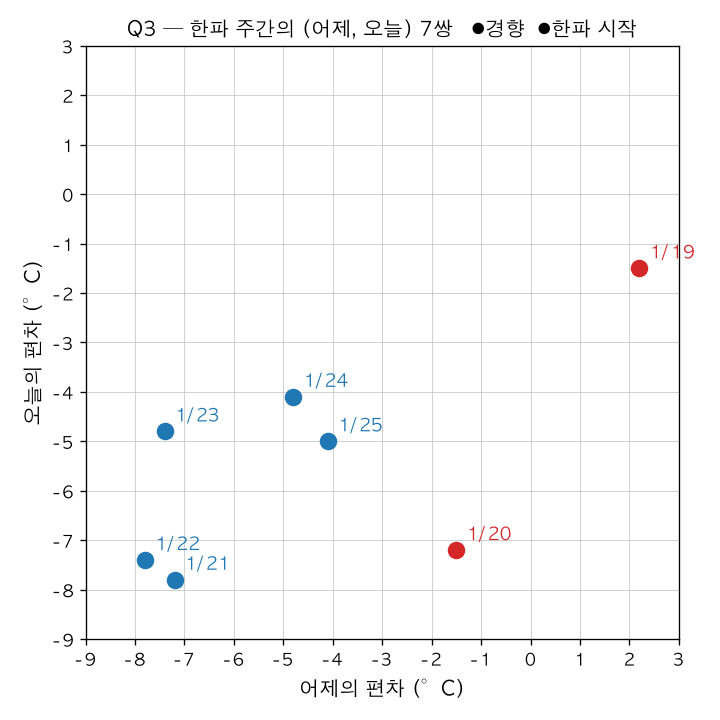
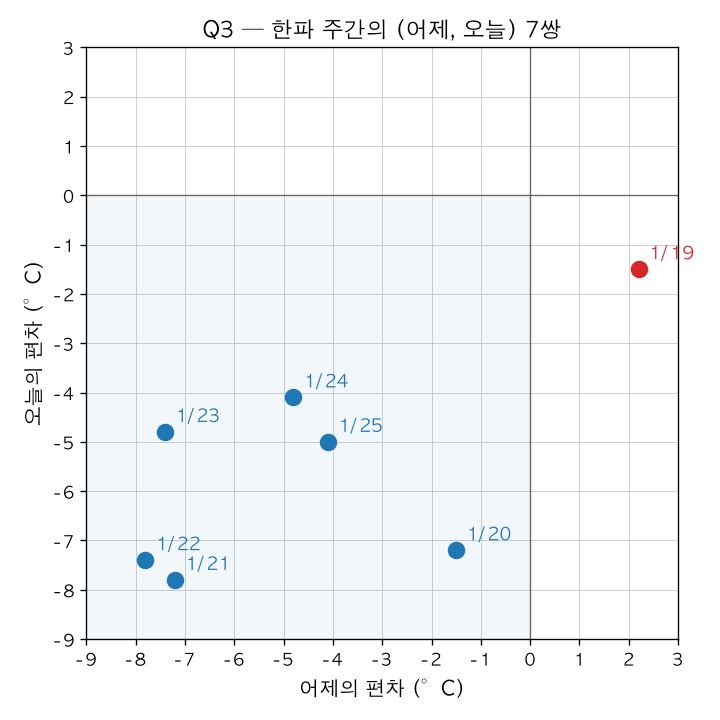
fix: H5 Q3 재설계 — 7쌍 손그림에서 방향 해석 제거, '구역 관찰 = 가설, 판정은 1,095쌍' 구조로

diff --git a/courses/high/modules/05-autocorrelation/teacher.md b/courses/high/modules/05-autocorrelation/teacher.md
@@ -26,19 +26,20 @@
   편차는 오늘에 대한 강력한 힌트다. (유일한 예외가 첫 짝 +2.2 →
   -1.5, 한파가 **시작되는 날** — Q14의 복선이므로 여기서 가볍게
   짚어만 둔다.)
-- Q3 답: **대체로** 오른쪽 위로 향한다(7쌍의 상관 약 0.6) — 단,
-  깔끔한 직선을 기대하게 하지 말 것. 한파 시작의 두 짝
-  (-1.5, -7.2)와 (+2.2, -1.5)는 뚜렷이 벗어나 있고, 이 이탈이
-  잡음이 아니라 **전환점**이라는 게 Q14의 복선이다. "경향과
-  예외를 모두 봤는가"를 확인하고, 이 '경향의 세기'가 상관계수
-  r임을 상기시키며 2절로.
+- Q3 답: 일곱 점 중 여섯이 **왼쪽 아래 구역**(어제 음수, 오늘
+  음수)에 모인다. 벗어난 한 점 (+2.2, -1.5)는 **한파가 시작되던
+  날**의 짝 — Q14의 복선. 주의: 여기서 "기울기"나 "오른쪽 위
+  방향"을 읽게 하지 말 것. 7쌍(한 사건에서 겹치게 뽑은 짝)으로는
+  상관을 말할 수 없다 — 심화의 어림 기준 ±2/√n을 n=7에 적용하면
+  ±0.76인데 7쌍의 상관은 0.64로 그 안이다. 손그림의 결론은 "낮은
+  날 옆에 낮은 날"이라는 **가설**까지이고, 판정은 3절의 1,095쌍이
+  한다 — 이 절제 자체가 통계 수업이다.
 
-  ![Q3의 7쌍 — 파랑이 경향(한파 한복판과 회복기), 빨강이 한파
-  시작의 두 짝](q3-pairs.png)
+  ![Q3의 7쌍 — 여섯 짝이 왼쪽 아래 구역(옅게 칠한 부분)에 모이고,
+  한파 시작의 짝 1/19만 벗어나 있다](q3-pairs.png)
 
-  칠판에 그릴 때도 이 구도가 쓸 만하다: 파란 다섯 점을 먼저
-  찍어 띠를 보여 주고, 빨간 두 점을 나중에 찍어 "벗어난 날은
-  언제인가"를 묻는다.
+  칠판에 그릴 때: 축과 왼쪽 아래 구역을 먼저 그리고 여섯 점을
+  찍은 뒤, 1/19를 마지막에 찍으며 "이날은 무슨 날인가"를 묻는다.
 
 ### 0:12–0:18 준비 — 데이터와 편차 재계산 (worksheet 2번)
 

diff --git a/courses/high/modules/05-autocorrelation/answers.md b/courses/high/modules/05-autocorrelation/answers.md
@@ -7,11 +7,13 @@
 - **Q2.** **6개 전부**. 어제의 편차가 음수면 오늘도 음수였다 —
   어제의 편차는 오늘에 대한 강력한 힌트다. (유일하게 부호가 바뀐
   첫 짝 +2.2 → -1.5는 한파가 시작된 날 — Q14의 복선.)
-- **Q3.** **대체로** 왼쪽 아래에서 오른쪽 위로 향한다(7쌍의
-  상관계수는 약 0.6). 한파 한복판과 회복기의 다섯 짝은 대각선을
-  잘 따라가지만, 두 점 — (-1.5, -7.2)와 (+2.2, -1.5) — 은 뚜렷이
-  벗어나 있다. 둘 다 **한파가 시작되던 순간**의 짝이다: 뭉침의
-  경향과 전환점의 이탈이 한 그림에 있다(Q14의 복선).
+- **Q3.** 일곱 점 중 여섯이 **왼쪽 아래 구역**(어제 음수, 오늘
+  음수)에 모인다. 벗어난 한 점은 (+2.2, -1.5) — **한파가 시작되던
+  날**의 짝이다(Q14의 복선). 주의: 이 그림에서 "기울기"나 "방향"을
+  읽으려 하면 안 된다 — 7쌍(그것도 한 사건에서 겹치게 뽑은
+  짝)으로는 상관을 말할 수 없다(7쌍의 상관 0.64는 n=7의 어림 유의
+  범위 ±0.76 안이다). 손그림의 몫은 "낮은 날 옆에 낮은 날"이라는
+  가설까지고, 판정은 3절의 1,095쌍이 한다.
 - **Q4.** 좁은 **대각선 띠** — 어제와 오늘이 거의 같다. 1절의
   모눈 7점이 1,095쌍으로 확장된 그림.
 - **Q5.** **0.98**. +1에 매우 가깝다 — "어제를 알면 오늘은 거의
